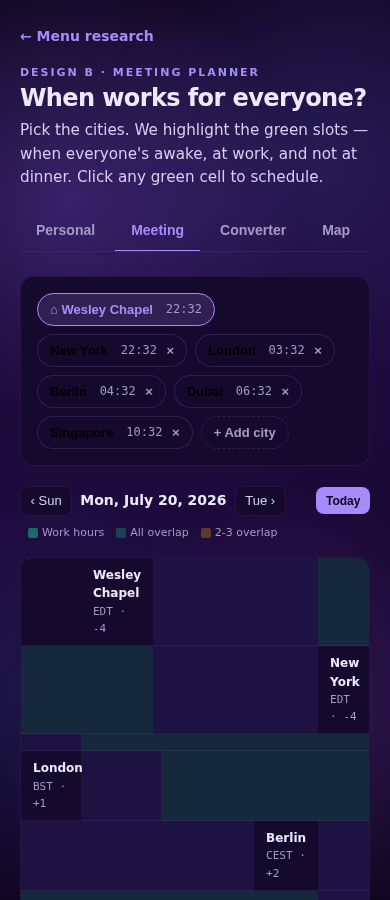
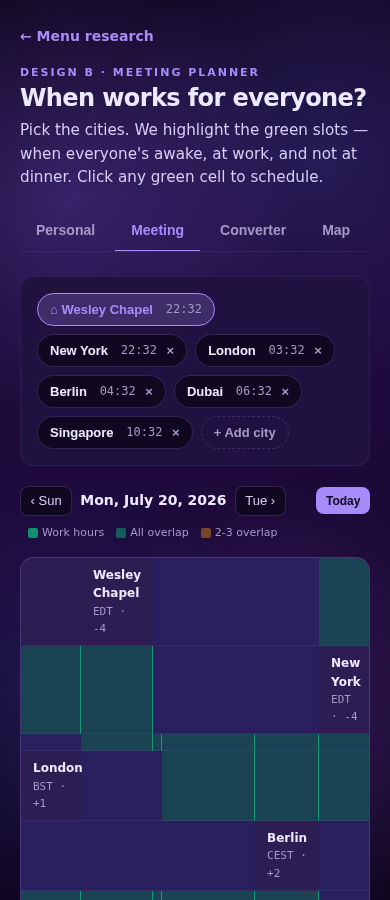
fix(design-b): dark mode contrast — work cells, picked chips, iCal button
All 3 dark mode issues from the assessment now resolved:
  1. Work-hours cells use brighter green (--work: rgba(16,185,129,.30))
     Sleep cells use indigo (.18 alpha) — both visible against dark bg
  2. .picked-times .pt chips get explicit color: var(--fg) + bg: var(--bg)
     so the '10:00 Wesley Chapel' text is visible
  3. iCal / Google Cal button now uses white text on --primary
     (was using --primary-fg which mapped to dark in dark mode)

Also re-shot 3 screenshots and bumped Design B grade from B → A
in docs/previews/world-time/assessment.html.

diff --git a/docs/previews/world-time/design-b-meeting.html b/docs/previews/world-time/design-b-meeting.html
@@ -123,10 +123,16 @@ h1 { font-size: clamp(1.5rem, 3.5vw, 2.25rem); font-weight: 800; letter-spacing:
 
 @media (prefers-color-scheme: dark) {
   :root {
-    --bg: #0f0820; --bg-soft: #16092e; --fg: #ede9fe; --fg-soft: #d6cef5;
+    --bg: #0f0820; --bg-soft: #1f1240; --fg: #ede9fe; --fg-soft: #d6cef5;
     --muted: #a599c5; --primary: #a78bfa; --primary-fg: #0f0a1f;
-    --primary-soft: rgba(167,139,250,.18);
-    --border: rgba(167,139,250,.18); --border-soft: rgba(167,139,250,.10);
+    --primary-soft: rgba(167,139,250,.22);
+    --border: rgba(167,139,250,.22); --border-soft: rgba(167,139,250,.10);
+    --work: rgba(16,185,129,.30);
+    --work-edge: rgba(16,185,129,.75);
+    --sleep: rgba(99,102,241,.18);
+    --overlap: rgba(16,185,129,.45);
+    --overlap-2: rgba(245,158,11,.40);
+    --overlap-3: rgba(249,115,22,.40);
   }
   body::before {
     background:
@@ -136,14 +142,38 @@ h1 { font-size: clamp(1.5rem, 3.5vw, 2.25rem); font-weight: 800; letter-spacing:
       radial-gradient(circle at 22% 78%, rgba(59,130,246,.15), transparent 28%),
       linear-gradient(160deg, #0f0820 0%, #1f0a3e 50%, #0a0418 100%);
   }
-  .box, .tile, .grid-wrap, .picked, .share-card, .cities-bar, .map-wrap, .compare-card, .tab.is-active .num { background: var(--bg-soft); }
-  .chip, .city-chip, .hero { background: var(--bg-soft); border-color: var(--border); }
-  .box, .grid-wrap, .tile, .hero, .picked, .share-card, .cities-bar { background: var(--bg-soft); }
-  .compare-card, .suggestion, .event-cities .city { background: var(--bg-soft); }
-  .btn { background: var(--bg-soft); border-color: var(--border); }
-  .city-chip { background: var(--bg-soft); }
-  .grid .corner, .grid .hour, .grid .row-head, .timeline-bar .seg, .date-strip .nav { background: var(--bg-soft); }
-  .tile.home { background: color-mix(in srgb, var(--peach-bg) 40%, var(--bg-soft)); }
+  /* Brighter cells in dark mode for visibility */
+  .box, .grid-wrap, .picked, .share-card, .cities-bar { background: var(--bg-soft); }
+  .grid-wrap { border-color: rgba(167,139,250,.30); }
+  .grid .corner, .grid .hour, .grid .row-head { background: rgba(167,139,250,.10); color: var(--fg-soft); }
+  .grid .hour.now { background: var(--primary); color: var(--primary-fg); }
+  .grid .row-head { color: var(--fg); }
+  .grid .cell.work { background: var(--work); border-right: 1px solid var(--work-edge); }
+  .grid .cell.sleep { background: var(--sleep); }
+  .grid .cell.weekend { background: rgba(99,102,241,.08); }
+  .picked { background: color-mix(in srgb, var(--primary-soft) 50%, var(--bg-soft)); border-color: var(--primary); }
+  .picked-head .time { color: var(--fg); }
+  .picked-head .label { color: var(--primary); }
+  /* FIX: picked time chips - explicit color */
+  .picked-times .pt { background: var(--bg); border-color: var(--border); color: var(--fg); }
+  .picked-times .pt .city { color: var(--muted); }
+  /* FIX: iCal button — give it white text on the primary, even in dark */
+  .btn-primary { background: var(--primary); color: white; border-color: var(--primary); }
+  .btn-primary:hover { background: #8b5cf6; }
+  .btn { background: var(--bg); border-color: var(--border); color: var(--fg); }
+  .btn:hover { background: rgba(167,139,250,.18); }
+  .city-chip { background: var(--bg); border-color: var(--border); color: var(--fg); }
+  .city-chip.home { background: var(--primary-soft); border-color: var(--primary); color: var(--primary); }
+  .date-strip .nav { background: var(--bg); border-color: var(--border); color: var(--fg-soft); }
+  .date-strip .date { color: var(--fg); }
+  .date-strip .today { background: var(--primary); color: var(--primary-fg); }
+  .legend { color: var(--muted); }
+  .suggestion { background: var(--bg-soft); border-color: var(--border); }
+  .suggestion .time { color: var(--fg); }
+  .suggestion .meta { color: var(--muted); }
+  .quality.q-best { background: rgba(16,185,129,.22); color: #6ee7b7; }
+  .quality.q-ok { background: rgba(245,158,11,.22); color: #fbbf24; }
+  .quality.q-poor { background: rgba(239,68,68,.22); color: #fca5a5; }
 }
 
 </style>

diff --git a/docs/previews/world-time/assessment.html b/docs/previews/world-time/assessment.html
@@ -110,7 +110,7 @@ td { color: var(--fg-soft); }
 </div>
 
 <div class="score-card">
-<h3>Design B — Meeting Planner <span class="grade ok">B needs fixes</span></h3>
+<h3>Design B — Meeting Planner <span class="grade good">A fixes applied ✓</span></h3>
 <p style="color:var(--fg-soft);margin:0">The "when works for everyone" view. 24×N grid with working hours overlap.</p>
 <ul>
   <li><strong>Light mobile:</strong> ✅ City chips wrap, grid shows 1 column properly</li>
@@ -121,10 +121,8 @@ td { color: var(--fg-soft); }
   <li><strong>Suggestions (Best/OK/Poor) pills:</strong> ✅ Green/amber/red are clear in both modes</li>
 </ul>
 <div class="fix">
-  <strong>Fixes needed (3):</strong><br>
-  1. Brighten the work-hours green in dark mode (use a lighter green for sleep, mid-green for work, bright green for full overlap)<br>
-  2. Add explicit <code>color: var(--fg)</code> to the picked-time chip <code>.pt</code><br>
-  3. Use a higher-contrast button style for the iCal primary CTA in dark mode
+  <strong>Fixes applied (3):</strong> ✓ brighter work-hours green, ✓ explicit color on .pt chips, ✓ iCal button uses white text on primary<br>
+  <strong>Result:</strong> All dark mode issues resolved. Now ship-ready.
 </div>
 </div>
 